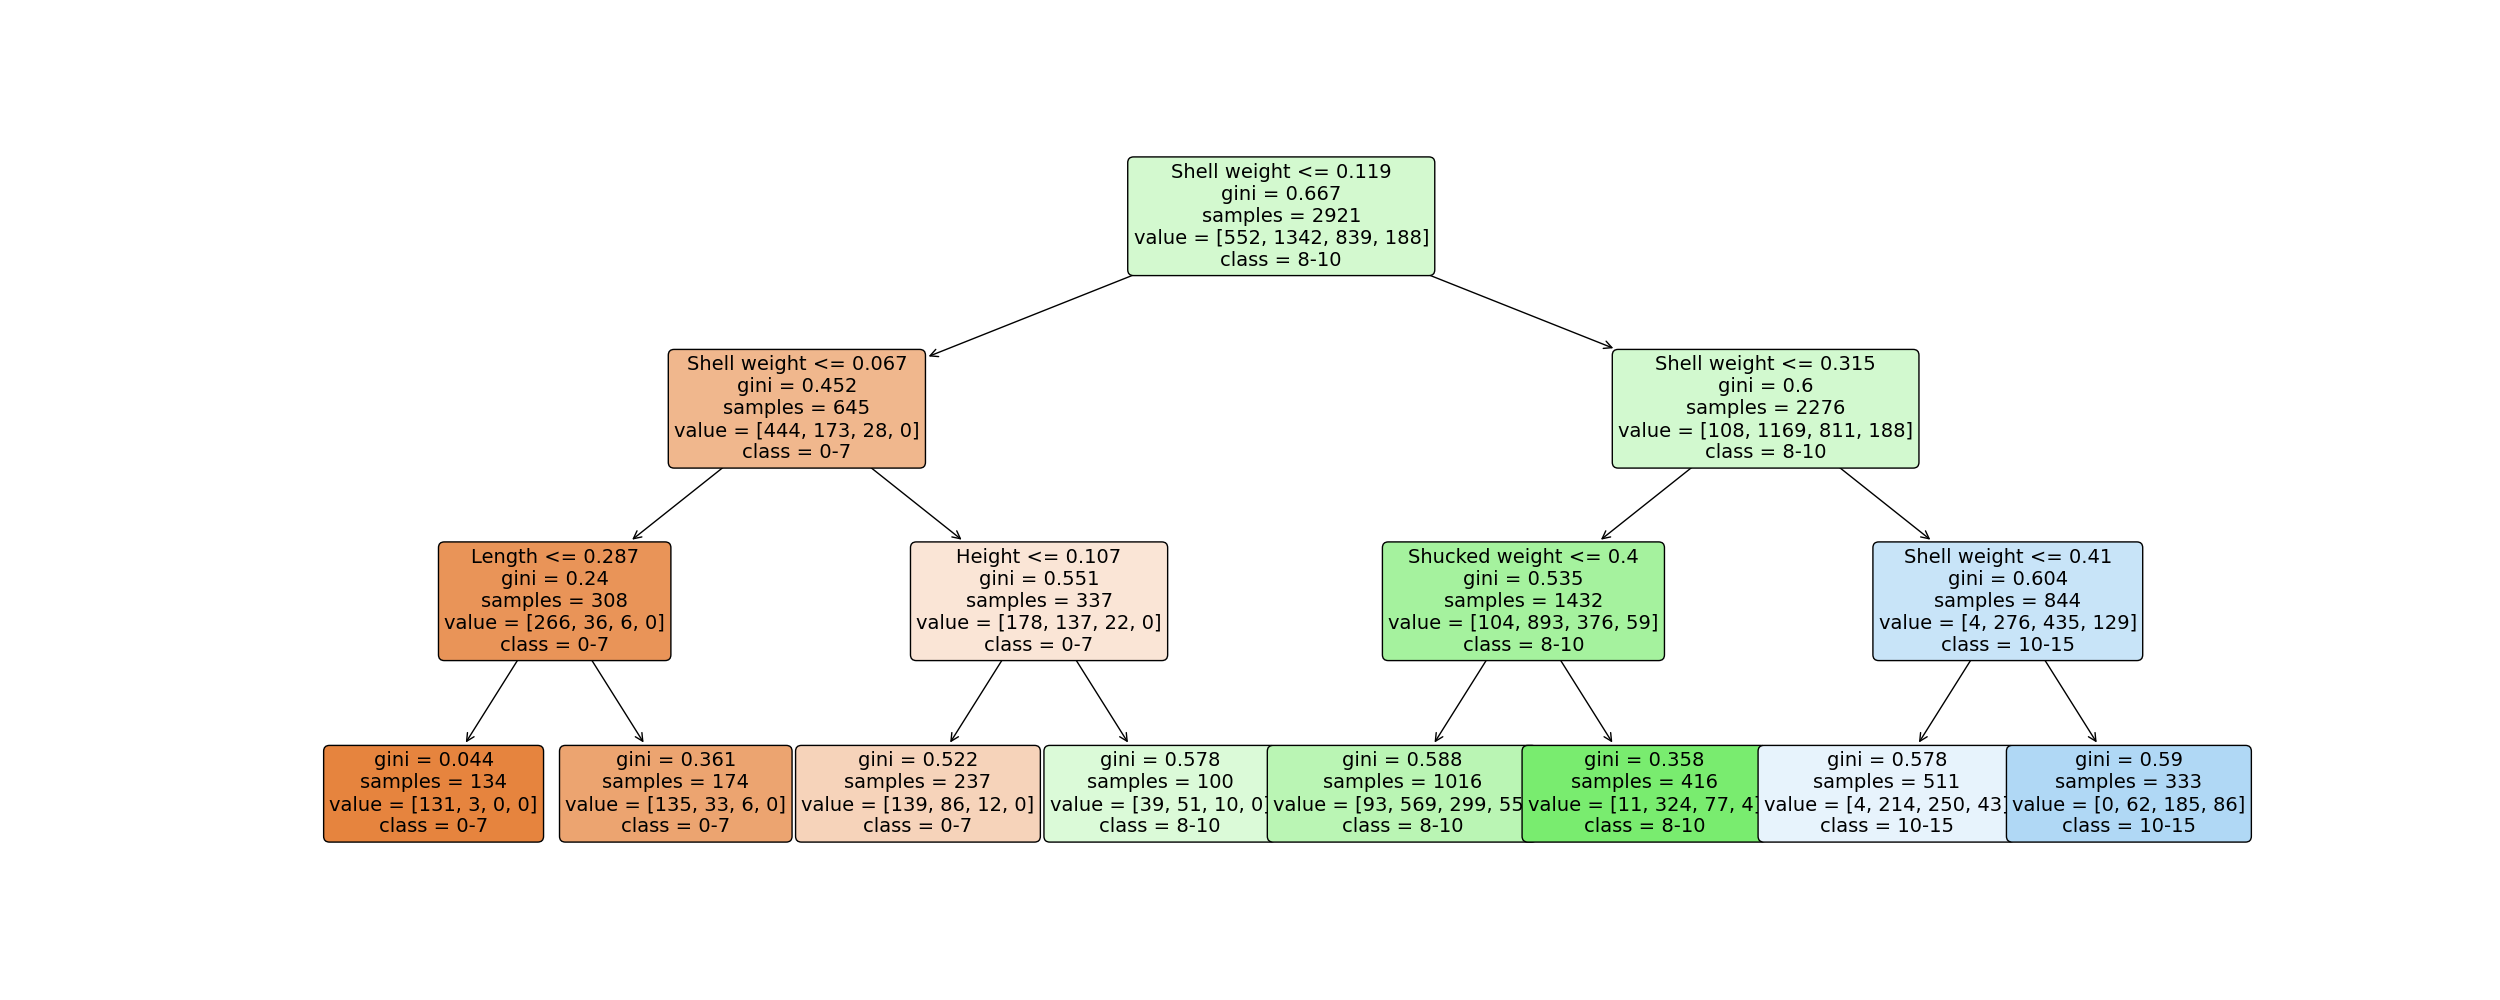
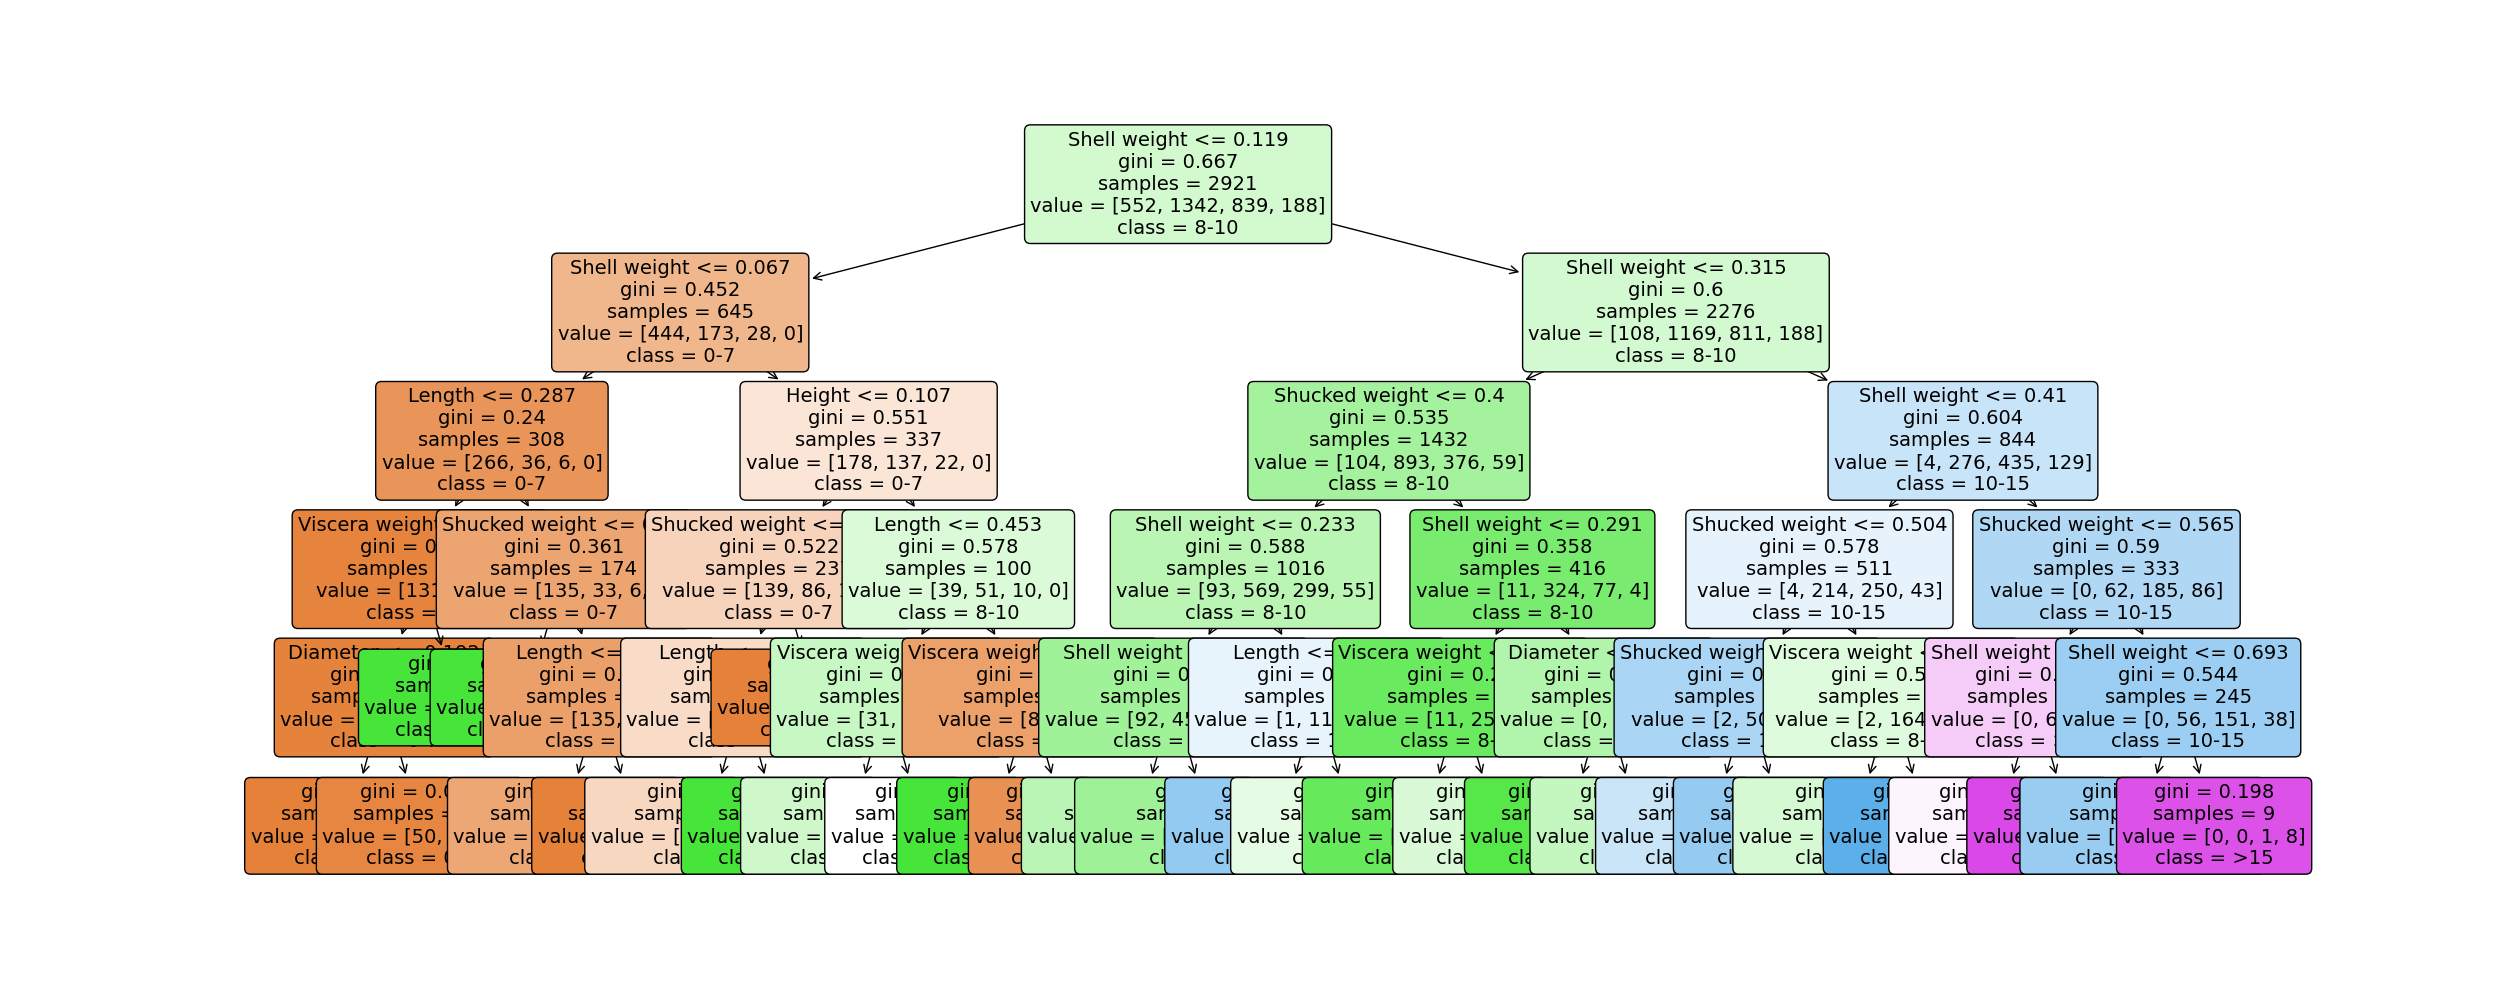
Tree finish and post pruning

diff --git a/main.py b/main.py
@@ -102,8 +102,8 @@ def splitdataset(data):
 
 
 def tree_make(X_train,y_train):
-    model = DecisionTreeClassifier(max_depth=3, criterion='gini')
-    detree = model.fit(X_train, y_train)
+    decision_tree = DecisionTreeClassifier(max_depth=5, criterion='gini')
+    detree = decision_tree.fit(X_train, y_train)
 
     from sklearn.tree import plot_tree
     plt.figure(figsize=(25, 10))
@@ -116,19 +116,101 @@ def tree_make(X_train,y_train):
               fontsize=14)
 
     plt.savefig('Decision tree')
+    return detree
 
+def tree_choose(data,numebr_depth):
+    arr_tr = np.zeros(numebr_depth)
+    arr_t = np.zeros(numebr_depth)
+    for i in range(1,numebr_depth+1):
+        X_train, X_test, y_train, y_test = splitdataset(data)
+        decision_tree = DecisionTreeClassifier(max_depth=i, criterion='gini')
+        decision_tree.fit(X_train, y_train)
+        acc_tr = accuracy_score(y_true=y_train, y_pred=decision_tree.predict(X_train))
+        acc_t =  accuracy_score(y_true=y_test, y_pred=decision_tree.predict(X_test))
+        arr_tr[i-1] = acc_tr
+        arr_t[i-1] = acc_t
+    plt.figure(figsize=(10, 5))
+    plt.plot([i for i in range(numebr_depth)], arr_tr, c='orange')
+    plt.title('Decision Tree for Train Data')
+    plt.xlabel('Max_Depth')
+    plt.ylabel('Train Accuracy')
+    plt.savefig('Acc_Train.png')
+    plt.figure(figsize=(10, 5))
+    plt.plot([i for i in range(numebr_depth)], arr_t, c='orange')
+    plt.title('Decision Tree for Test Data')
+    plt.xlabel('Max_Depth')
+    plt.ylabel('Test Accuracy')
+    plt.savefig('Acc_T.png')
 
+def post_pruning(decision_tree,X_train, X_test, y_train, y_test):
+    path = decision_tree.cost_complexity_pruning_path(X_train, y_train)
+    ccp_alphas, impurities = path.ccp_alphas, path.impurities
+    fig, ax = plt.subplots()
+    ax.plot(ccp_alphas[:-1], impurities[:-1], marker="o", drawstyle="steps-post")
+    ax.set_xlabel("effective alpha")
+    ax.set_ylabel("total impurity of leaves")
+    ax.set_title("Total Impurity vs effective alpha for training set")
+    plt.savefig('Impurity vs Effective.png')
+
+    clfs = []
+    for ccp_alpha in ccp_alphas:
+        clf = DecisionTreeClassifier(random_state=0, ccp_alpha=ccp_alpha)
+        clf.fit(X_train, y_train)
+        clfs.append(clf)
+    print(
+        "Number of nodes in the last tree is: {} with ccp_alpha: {}".format(
+            clfs[-1].tree_.node_count, ccp_alphas[-1]
+        )
+    )
+    clfs = clfs[:-1]
+    ccp_alphas = ccp_alphas[:-1]
+
+    node_counts = [clf.tree_.node_count for clf in clfs]
+    depth = [clf.tree_.max_depth for clf in clfs]
+    fig, ax = plt.subplots(2, 1)
+    ax[0].plot(ccp_alphas, node_counts, marker="o", drawstyle="steps-post")
+    ax[0].set_xlabel("alpha")
+    ax[0].set_ylabel("number of nodes")
+    ax[0].set_title("Number of nodes vs alpha")
+    ax[1].plot(ccp_alphas, depth, marker="o", drawstyle="steps-post")
+    ax[1].set_xlabel("alpha")
+    ax[1].set_ylabel("depth of tree")
+    ax[1].set_title("Depth vs alpha")
+    fig.tight_layout()
+    plt.savefig('Node vs Alpha vs Depth.png')
+
+    train_scores = [clf.score(X_train, y_train) for clf in clfs]
+    test_scores = [clf.score(X_test, y_test) for clf in clfs]
+
+    fig, ax = plt.subplots()
+    ax.set_xlabel("alpha")
+    ax.set_ylabel("accuracy")
+    ax.set_title("Accuracy vs alpha for training and testing sets")
+    ax.plot(ccp_alphas, train_scores, marker="o", label="train", drawstyle="steps-post")
+    ax.plot(ccp_alphas, test_scores, marker="o", label="test", drawstyle="steps-post")
+    ax.legend()
+    plt.savefig('Accuracy vs Alpha.png')
 
 # Driver code
 def main():
     # import data
     data = importdata()
+
     # create multiiclass
     class_name = ['0-7', '8-10', '10-15','>15']
     multi_class(data, class_name)
+
     # create decision tree
     X_train, X_test, y_train, y_test = splitdataset(data)
-    tree_make(X_train,y_train)
+    decision_tree = tree_make(X_train,y_train)
+
+    #choose the best tree
+    numebr_depth = 30
+    tree_choose(data,numebr_depth)
+
+    #prune
+    post_pruning(decision_tree,X_train, X_test, y_train, y_test)
+
 
 
 
